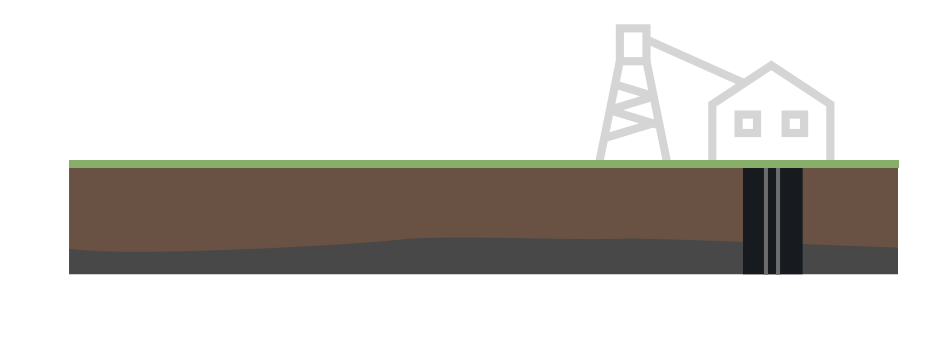
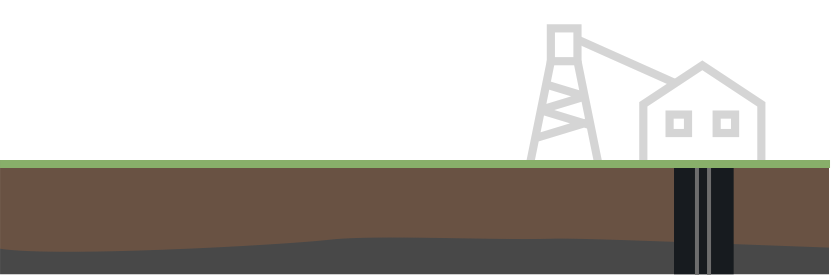
Takes whitespace out of image files. Adds adjustments for mobile. Makes images show up where they should.

diff --git a/_sass/blocks/_landing.scss b/_sass/blocks/_landing.scss
@@ -1,18 +1,13 @@
-.landing-section_open,
-.landing-section {
-  padding-top: $base-padding;
-  padding-bottom: 0;
-}
-
-
 .landing-section,
 .landing-section_open {
   border-bottom: $thin-border-size solid $mid-gray;
+  padding-top: $base-padding;
+  padding-bottom: $base-padding;
 
   @include respond-to(medium-up) {
     @include span-columns(5);
-
     border-bottom: none;
+    padding-bottom: 0;
   }
 }
 
@@ -37,41 +32,8 @@
 .landing-section_open {
   margin-top: $base-padding;
 
-  &.oil-gas {
-    background: url('../img/how-it-works/cards/oil-gas.png') bottom right no-repeat;
-  }
-
-  &.coal {
-    background: url('../img/how-it-works/cards/coal.png') bottom right no-repeat;
-  }
-
-  &.minerals {
-    background: url('../img/how-it-works/cards/minerals.png') bottom right no-repeat;
-  }
-
-  &.renewables {
-    background: url('../img/how-it-works/cards/renewables.png') bottom right no-repeat;
-  }
-
   &.overview {
     color: $neutral-gray;
-
-    .landing-description {
-      @include span-columns(8);
-    }
-
-    .landing-icons {
-      @include span-columns(4);
-      @include font-size(3);
-      @include omega();
-
-      margin-bottom: $base-padding-lite;
-
-      [class*='icon-'] {
-        color: $neutral-gray;
-        float: right;
-      }
-    }
 
     .landing-steps {
       @include span-columns(12);
@@ -88,43 +50,71 @@
     }
   }
 
-  &.oil-gas,
-  &.coal,
-  &.minerals,
-  &.renewables {
-    background-size: 100%;
-    height: 310px;
-
-    .landing-description {
-      @include span-columns(7);
-    }
-  }
-
   @include respond-to(medium-up) {
-    &.oil-gas {
-      @include shift(2);
-    }
-
-    &.coal {
-      @include omega();
-    }
-
-    &.minerals {
-      @include shift(2);
-    }
-
-    &.renewables {
-      @include omega();
-    }
-
     &.overview {
-      @include span-columns(5);
+      @include span-columns(6);
       @include shift(2);
     }
   }
 
   .landing-heading {
     display: block;
+  }
+}
+
+.landing-oil_gas {
+  background: url('../img/how-it-works/cards/oil-gas.png') bottom left no-repeat;
+}
+
+.landing-coal {
+  background: url('../img/how-it-works/cards/coal.png') bottom left no-repeat;
+}
+
+.landing-minerals {
+  background: url('../img/how-it-works/cards/minerals.png') bottom left no-repeat;
+}
+
+.landing-renewables {
+  background: url('../img/how-it-works/cards/renewables.png') bottom left no-repeat;
+}
+
+.landing-oil_gas,
+.landing-coal,
+.landing-minerals,
+.landing-renewables {
+  background-size: 100%;
+  height: 230px;
+
+  p {
+    width: 63%;
+    padding-top: $base-padding;
+  }
+
+  @include respond-to(medium-up) {
+    height: 200px;
+  }
+}
+
+.landing-oil_gas-wrapper,
+.landing-minerals-wrapper,
+.landing-coal-wrapper,
+.landing-renewables-wrapper {
+  .landing-heading {
+    margin-bottom: -($base-padding-lite * 1.8);
+  }
+}
+
+.landing-oil_gas-wrapper,
+.landing-minerals-wrapper {
+  @include respond-to(medium-up) {
+    @include shift(2);
+  }
+}
+
+.landing-coal-wrapper,
+.landing-renewables-wrapper {
+  @include respond-to(medium-up) {
+    @include omega();
   }
 }
 

diff --git a/_how-it-works/default.md b/_how-it-works/default.md
@@ -25,15 +25,7 @@ permalink: /how-it-works/
   <section class="container">
     <h3 id="process" class="landing-section_category">The process</h3>
     <div class="container landing-section_open overview">
-      <!-- <h5 class="landing-heading"><a id="process-overview" href="{{site.baseurl}}/how-it-works/process-overview/">Overview</a></h5> -->
-      <!-- <p class="landing-description">The process of how the federal government awards rights to extract natural resources from federal lands, and how those resources eventually result in revenue, differs depending on the resource and whether extraction is taking place onshore or offshore.</p> -->
       <p>How the federal government awards rights to extract natural resources from federal lands, and how those resources eventually result in revenue, differs depending on the resource and whether extraction is taking place onshore or offshore, though it follows five general steps:</p>
-      <!-- <div class="landing-icons">
-        <icon class="icon-oil"></icon>
-        <icon class="icon-minerals"></icon>
-        <icon class="icon-coal"></icon>
-        <icon class="icon-renewables"></icon>
-      </div> -->
       <p class="para-lg landing-steps">
         <span>Plan <icon class="icon-chevron-lg"></icon></span>
         <span>Lease <icon class="icon-chevron-lg"></icon></span>
@@ -43,22 +35,31 @@ permalink: /how-it-works/
       </p>
       <p>Choose a resource to learn more:</p>
     </div>
-    <div class="container landing-section_open oil-gas">
+
+    <div class="container landing-section_open landing-oil_gas-wrapper">
       <h5 class="landing-heading"><a href="{{site.baseurl}}/how-it-works/offshore-oil-gas/">Oil and gas</a></h5>
-      <p class="landing-description">Oil and gas (or natural gas) are fossil fuels that form underground on land and under the ocean. While they are abundant, they are not renewable.</p>
+      <div class="landing-oil_gas">
+        <p class="landing-description">Oil and gas (or natural gas) are fossil fuels that form underground on land and under the ocean. While they are abundant, they are not renewable.</p>
+      </div>
     </div>
     </div>
-    <div class="container landing-section_open coal">
+    <div class="container landing-section_open landing-coal-wrapper">
       <h5 class="landing-heading"><a href="{{site.baseurl}}/how-it-works/coal/">Coal</a></h5>
-      <p class="landing-description">Miners extract coal through surface and subsurface mining. In 2013, the U.S. was the world’s second largest coal producer after China.</p>
+      <div class="landing-coal">
+        <p class="landing-description">Miners extract coal through surface and subsurface mining. In 2013, the U.S. was the world’s second largest coal producer after China.</p>
+      </div>
     </div>
-    <div class="container landing-section_open minerals">
+    <div class="container landing-section_open landing-minerals-wrapper">
       <h5 class="landing-heading"><a href="{{site.baseurl}}/how-it-works/minerals/">Nonenergy minerals</a></h5>
+      <div class="landing-minerals">
         <p class="landing-description">Gold, copper, and iron are the chief sources of nonenergy mineral revenues. In 2013, U.S. metal production totaled $32 billion in value.</p>
+      </div>
     </div>
-    <div class="container landing-section_open renewables">
+    <div class="container landing-section_open landing-renewables-wrapper">
       <h5 class="landing-heading"><a href="{{site.baseurl}}/how-it-works/onshore-renewables/">Renewable energy</a></h5>
-      <p class="landing-description">Renewable energy resources—including geothermal, solar, wind, biomass, and hydrokinetic energy—comprised about 10% of total U.S. energy consumption in 2013.</p>
+      <div class="landing-renewables">
+        <p class="landing-description">Renewable energy resources—including geothermal, solar, wind, biomass, and hydrokinetic energy—comprised about 10% of total U.S. energy consumption in 2013.</p>
+      </div>
     </div>
   </section>
 
